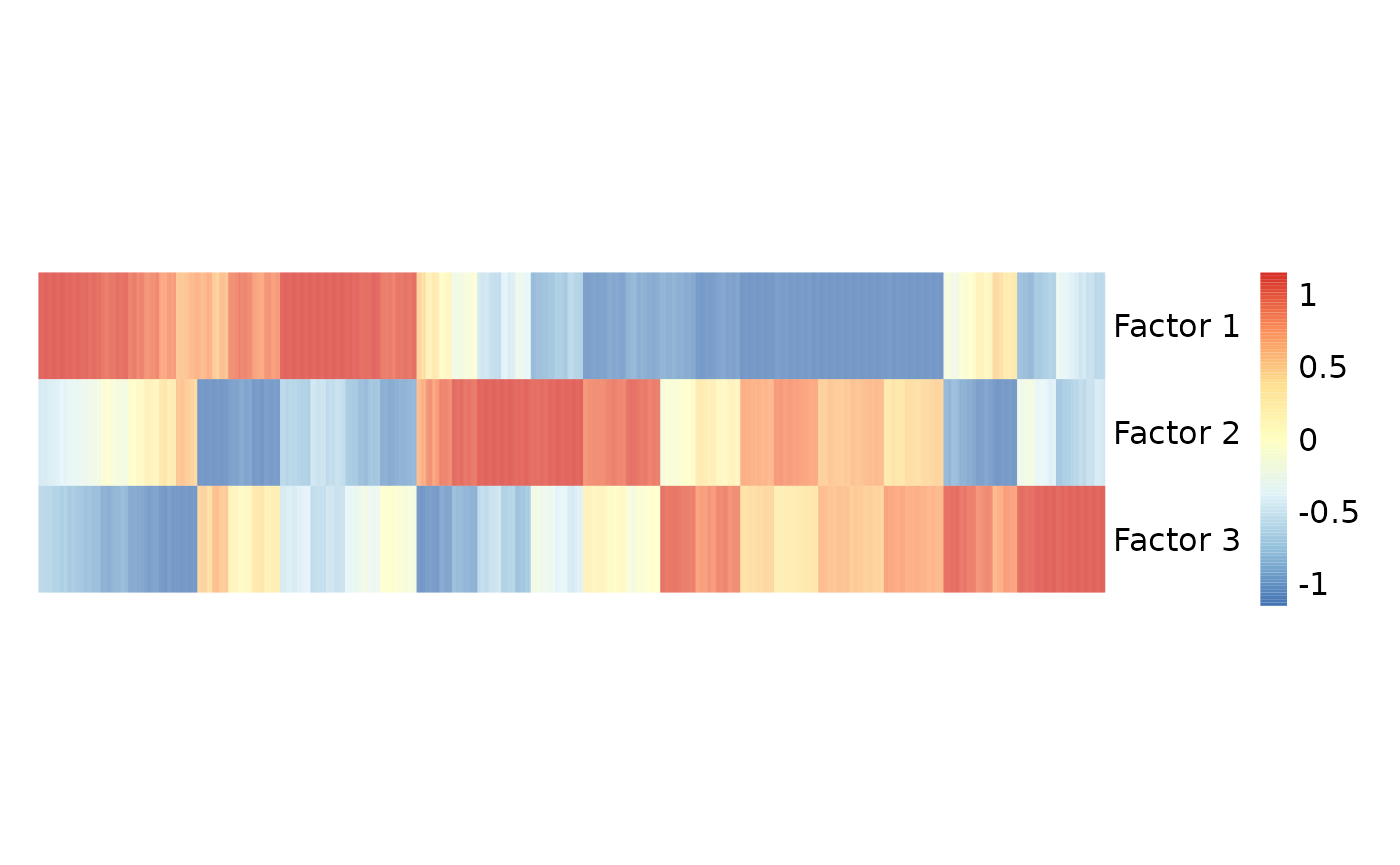
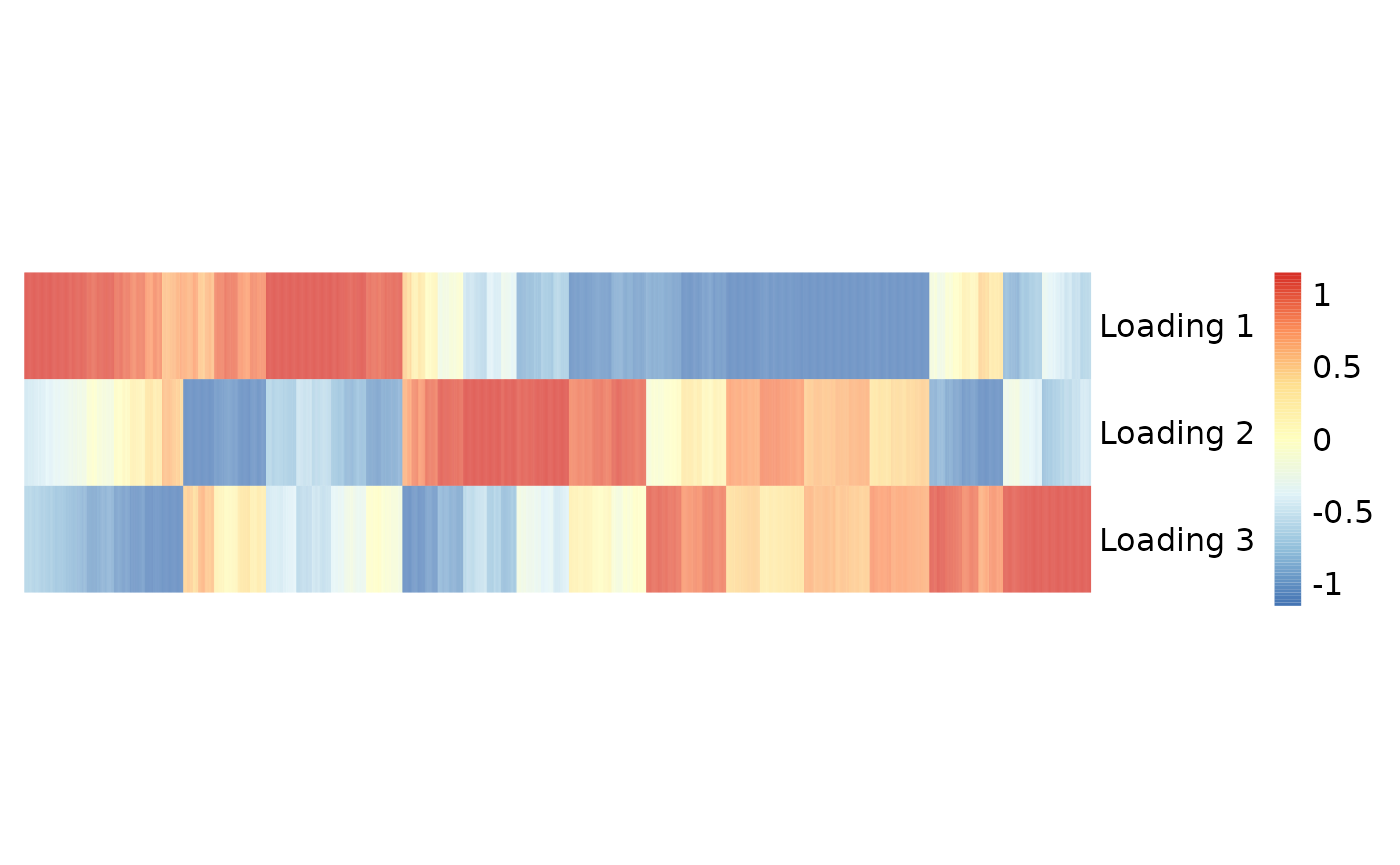
Deploying to gh-pages from @ YangLabHKUST/mfair@5b9a8058d7cebe4ab9891791e4a91e08b1c44281 🚀

diff --git a/articles/neocortex.html b/articles/neocortex.html
@@ -201,7 +201,10 @@ by <span class="math inline">\(\{ F_1 (\cdot) , F_2 (\cdot) , F_3
 <code class="sourceCode R"><span><span class="co"># Visualization of F(.)</span></span>
 <span><span class="va">p</span> <span class="op">&lt;-</span> <span class="fu"><a href="https://ggplot2.tidyverse.org/reference/ggplot.html" class="external-link">ggplot</a></span><span class="op">(</span></span>
 <span>  data <span class="op">=</span> <span class="va">FX_long</span>,</span>
-<span>  <span class="fu"><a href="https://ggplot2.tidyverse.org/reference/aes.html" class="external-link">aes</a></span><span class="op">(</span>x <span class="op">=</span> <span class="va">`Time period`</span>, y <span class="op">=</span> <span class="cn">F</span>, linetype <span class="op">=</span> <span class="va">`Neocortex area`</span>, colour <span class="op">=</span> <span class="va">`Neocortex area`</span>, group <span class="op">=</span> <span class="va">`Neocortex area`</span><span class="op">)</span></span>
+<span>  <span class="fu"><a href="https://ggplot2.tidyverse.org/reference/aes.html" class="external-link">aes</a></span><span class="op">(</span></span>
+<span>    x <span class="op">=</span> <span class="va">`Time period`</span>, y <span class="op">=</span> <span class="cn">F</span>,</span>
+<span>    linetype <span class="op">=</span> <span class="va">`Neocortex area`</span>, colour <span class="op">=</span> <span class="va">`Neocortex area`</span>, group <span class="op">=</span> <span class="va">`Neocortex area`</span></span>
+<span>  <span class="op">)</span></span>
 <span><span class="op">)</span> <span class="op">+</span></span>
 <span>  <span class="fu"><a href="https://ggplot2.tidyverse.org/reference/geom_path.html" class="external-link">geom_line</a></span><span class="op">(</span>linewidth <span class="op">=</span> <span class="fl">0.5</span><span class="op">)</span> <span class="op">+</span></span>
 <span>  <span class="fu"><a href="https://ggplot2.tidyverse.org/reference/labs.html" class="external-link">ylab</a></span><span class="op">(</span><span class="cn">NULL</span><span class="op">)</span> <span class="op">+</span></span>
@@ -228,12 +231,12 @@ by <span class="math inline">\(\{ F_1 (\cdot) , F_2 (\cdot) , F_3
 <h2 id="gene-set-enrichment-analysis">Gene set enrichment analysis<a class="anchor" aria-label="anchor" href="#gene-set-enrichment-analysis"></a>
 </h2>
 <div class="sourceCode" id="cb7"><pre class="downlit sourceCode r">
-<code class="sourceCode R"><span><span class="co"># Inferred gene factors (corresponding to the W matrix in the MFAI paper)</span></span>
-<span><span class="va">gene_factors</span> <span class="op">&lt;-</span> <span class="va">mfairObject</span><span class="op">@</span><span class="va">W</span></span>
-<span><span class="fu"><a href="https://rdrr.io/r/base/colnames.html" class="external-link">rownames</a></span><span class="op">(</span><span class="va">gene_factors</span><span class="op">)</span> <span class="op">&lt;-</span> <span class="fu"><a href="https://rdrr.io/r/base/colnames.html" class="external-link">colnames</a></span><span class="op">(</span><span class="va">mfairObject</span><span class="op">@</span><span class="va">Y</span><span class="op">)</span> <span class="co"># Assign gene symbols</span></span>
-<span><span class="fu"><a href="https://rdrr.io/r/base/colnames.html" class="external-link">colnames</a></span><span class="op">(</span><span class="va">gene_factors</span><span class="op">)</span> <span class="op">&lt;-</span> <span class="fu"><a href="https://rdrr.io/r/base/paste.html" class="external-link">paste</a></span><span class="op">(</span><span class="st">"Factor"</span>, <span class="fu"><a href="https://rdrr.io/r/base/c.html" class="external-link">c</a></span><span class="op">(</span><span class="fl">1</span><span class="op">:</span><span class="fl">3</span><span class="op">)</span><span class="op">)</span></span>
-<span><span class="fu"><a href="https://rdrr.io/r/utils/head.html" class="external-link">head</a></span><span class="op">(</span><span class="va">gene_factors</span><span class="op">)</span></span>
-<span><span class="co">#&gt;           Factor 1   Factor 2   Factor 3</span></span>
+<code class="sourceCode R"><span><span class="co"># Inferred gene loadings (corresponding to the W matrix in the MFAI paper)</span></span>
+<span><span class="va">gene_loadings</span> <span class="op">&lt;-</span> <span class="va">mfairObject</span><span class="op">@</span><span class="va">W</span></span>
+<span><span class="fu"><a href="https://rdrr.io/r/base/colnames.html" class="external-link">rownames</a></span><span class="op">(</span><span class="va">gene_loadings</span><span class="op">)</span> <span class="op">&lt;-</span> <span class="fu"><a href="https://rdrr.io/r/base/colnames.html" class="external-link">colnames</a></span><span class="op">(</span><span class="va">mfairObject</span><span class="op">@</span><span class="va">Y</span><span class="op">)</span> <span class="co"># Assign gene symbols</span></span>
+<span><span class="fu"><a href="https://rdrr.io/r/base/colnames.html" class="external-link">colnames</a></span><span class="op">(</span><span class="va">gene_loadings</span><span class="op">)</span> <span class="op">&lt;-</span> <span class="fu"><a href="https://rdrr.io/r/base/paste.html" class="external-link">paste</a></span><span class="op">(</span><span class="st">"Loading"</span>, <span class="fu"><a href="https://rdrr.io/r/base/c.html" class="external-link">c</a></span><span class="op">(</span><span class="fl">1</span><span class="op">:</span><span class="fl">3</span><span class="op">)</span><span class="op">)</span></span>
+<span><span class="fu"><a href="https://rdrr.io/r/utils/head.html" class="external-link">head</a></span><span class="op">(</span><span class="va">gene_loadings</span><span class="op">)</span></span>
+<span><span class="co">#&gt;          Loading 1  Loading 2  Loading 3</span></span>
 <span><span class="co">#&gt; DCUN1D2 -1.0973545  0.4754917 -0.4656467</span></span>
 <span><span class="co">#&gt; ARRB1    3.7897678  0.5357535  0.3688403</span></span>
 <span><span class="co">#&gt; PDE1B    0.1807732  3.1537712 -0.5730507</span></span>
@@ -241,8 +244,8 @@ by <span class="math inline">\(\{ F_1 (\cdot) , F_2 (\cdot) , F_3
 <span><span class="co">#&gt; TOX      1.6022312 -1.6211514 -1.7326521</span></span>
 <span><span class="co">#&gt; LOXHD1  -3.4764620  0.1372484  0.1020414</span></span></code></pre></div>
 <div class="sourceCode" id="cb8"><pre class="downlit sourceCode r">
-<code class="sourceCode R"><span><span class="co"># Heatmap of the inferred gene factors</span></span>
-<span><span class="fu">pheatmap</span><span class="fu">::</span><span class="fu"><a href="https://rdrr.io/pkg/pheatmap/man/pheatmap.html" class="external-link">pheatmap</a></span><span class="op">(</span><span class="fu"><a href="https://rdrr.io/r/base/t.html" class="external-link">t</a></span><span class="op">(</span><span class="va">gene_factors</span><span class="op">)</span>,</span>
+<code class="sourceCode R"><span><span class="co"># Heatmap of the inferred gene loadings</span></span>
+<span><span class="fu">pheatmap</span><span class="fu">::</span><span class="fu"><a href="https://rdrr.io/pkg/pheatmap/man/pheatmap.html" class="external-link">pheatmap</a></span><span class="op">(</span><span class="fu"><a href="https://rdrr.io/r/base/t.html" class="external-link">t</a></span><span class="op">(</span><span class="va">gene_loadings</span><span class="op">)</span>,</span>
 <span>  scale <span class="op">=</span> <span class="st">"column"</span>,</span>
 <span>  clustering_method <span class="op">=</span> <span class="st">"complete"</span>,</span>
 <span>  cluster_row <span class="op">=</span> <span class="cn">FALSE</span>, cluster_col <span class="op">=</span> <span class="cn">TRUE</span>,</span>
@@ -253,14 +256,14 @@ by <span class="math inline">\(\{ F_1 (\cdot) , F_2 (\cdot) , F_3
 <span>  fontsize <span class="op">=</span> <span class="fl">12</span></span>
 <span><span class="op">)</span></span></code></pre></div>
 <p><img src="neocortex_files/figure-html/unnamed-chunk-8-1.png" width="700"></p>
-<p>We first calculated the relative weight of the <span class="math inline">\(k\)</span>-th factor for the <span class="math inline">\(m\)</span>-th gene by <span class="math inline">\(\left| W_{mk} \right| / \sum_{k^{\prime}=1}^{3}
+<p>We first calculated the relative weight of the <span class="math inline">\(k\)</span>-th loading for the <span class="math inline">\(m\)</span>-th gene by <span class="math inline">\(\left| W_{mk} \right| / \sum_{k^{\prime}=1}^{3}
 \left| W_{mk^{\prime}} \right|\)</span>, where <span class="math inline">\(W_{m \cdot} \in \mathbb{R}^{3 \times 1}\)</span>
-is the <span class="math inline">\(m\)</span>-th row of gene factors,
-and then selected the top 300 weighted genes in each factor to form the
+is the <span class="math inline">\(m\)</span>-th row of gene loadings,
+and then selected the top 300 weighted genes in each loading to form the
 gene sets.</p>
 <div class="sourceCode" id="cb9"><pre class="downlit sourceCode r">
-<code class="sourceCode R"><span><span class="co"># Normalize each factor to have l2-norm equal one</span></span>
-<span><span class="va">gene_factors</span> <span class="op">&lt;-</span> <span class="fu"><a href="https://rdrr.io/r/base/apply.html" class="external-link">apply</a></span><span class="op">(</span><span class="va">gene_factors</span>,</span>
+<code class="sourceCode R"><span><span class="co"># Normalize each loading to have l2-norm equal one</span></span>
+<span><span class="va">gene_loadings</span> <span class="op">&lt;-</span> <span class="fu"><a href="https://rdrr.io/r/base/apply.html" class="external-link">apply</a></span><span class="op">(</span><span class="va">gene_loadings</span>,</span>
 <span>  MARGIN <span class="op">=</span> <span class="fl">2</span>,</span>
 <span>  FUN <span class="op">=</span> <span class="kw">function</span><span class="op">(</span><span class="va">x</span><span class="op">)</span> <span class="op">{</span></span>
 <span>    <span class="va">x</span> <span class="op">/</span> <span class="fu"><a href="https://rdrr.io/r/base/MathFun.html" class="external-link">sqrt</a></span><span class="op">(</span><span class="fu"><a href="https://rdrr.io/r/base/sum.html" class="external-link">sum</a></span><span class="op">(</span><span class="va">x</span><span class="op">^</span><span class="fl">2</span><span class="op">)</span><span class="op">)</span></span>
@@ -268,14 +271,14 @@ gene sets.</p>
 <span><span class="op">)</span></span>
 <span></span>
 <span><span class="co"># Relative weight</span></span>
-<span><span class="va">gene_factors</span> <span class="op">&lt;-</span> <span class="fu"><a href="https://rdrr.io/r/base/MathFun.html" class="external-link">abs</a></span><span class="op">(</span><span class="va">gene_factors</span><span class="op">)</span></span>
-<span><span class="va">gene_factors</span> <span class="op">&lt;-</span> <span class="va">gene_factors</span> <span class="op">/</span> <span class="fu"><a href="https://rdrr.io/pkg/Matrix/man/colSums.html" class="external-link">rowSums</a></span><span class="op">(</span><span class="va">gene_factors</span><span class="op">)</span></span>
+<span><span class="va">gene_loadings</span> <span class="op">&lt;-</span> <span class="fu"><a href="https://rdrr.io/r/base/MathFun.html" class="external-link">abs</a></span><span class="op">(</span><span class="va">gene_loadings</span><span class="op">)</span></span>
+<span><span class="va">gene_loadings</span> <span class="op">&lt;-</span> <span class="va">gene_loadings</span> <span class="op">/</span> <span class="fu"><a href="https://rdrr.io/pkg/Matrix/man/colSums.html" class="external-link">rowSums</a></span><span class="op">(</span><span class="va">gene_loadings</span><span class="op">)</span></span>
 <span></span>
-<span><span class="va">M</span> <span class="op">&lt;-</span> <span class="fu"><a href="https://rdrr.io/r/base/nrow.html" class="external-link">nrow</a></span><span class="op">(</span><span class="va">gene_factors</span><span class="op">)</span><span class="op">[</span><span class="fl">1</span><span class="op">]</span> <span class="co"># Total number of genes M = 2,000</span></span>
-<span><span class="va">ntop</span> <span class="op">&lt;-</span> <span class="va">M</span> <span class="op">*</span> <span class="fl">0.15</span> <span class="co"># We use the top 300 weighted genes in each factor to form the gene sets</span></span>
+<span><span class="va">M</span> <span class="op">&lt;-</span> <span class="fu"><a href="https://rdrr.io/r/base/nrow.html" class="external-link">nrow</a></span><span class="op">(</span><span class="va">gene_loadings</span><span class="op">)</span><span class="op">[</span><span class="fl">1</span><span class="op">]</span> <span class="co"># Total number of genes M = 2,000</span></span>
+<span><span class="va">ntop</span> <span class="op">&lt;-</span> <span class="va">M</span> <span class="op">*</span> <span class="fl">0.15</span> <span class="co"># We use the top 300 weighted genes in each loading to form the gene sets</span></span>
 <span></span>
 <span><span class="co"># Index of top genes</span></span>
-<span><span class="va">top_gene_idx</span> <span class="op">&lt;-</span> <span class="fu"><a href="https://rdrr.io/r/base/apply.html" class="external-link">apply</a></span><span class="op">(</span><span class="va">gene_factors</span>,</span>
+<span><span class="va">top_gene_idx</span> <span class="op">&lt;-</span> <span class="fu"><a href="https://rdrr.io/r/base/apply.html" class="external-link">apply</a></span><span class="op">(</span><span class="va">gene_loadings</span>,</span>
 <span>  MARGIN <span class="op">=</span> <span class="fl">2</span>,</span>
 <span>  FUN <span class="op">=</span> <span class="kw">function</span><span class="op">(</span><span class="va">x</span><span class="op">)</span> <span class="op">{</span></span>
 <span>    <span class="fu"><a href="https://rdrr.io/r/base/which.html" class="external-link">which</a></span><span class="op">(</span><span class="fu"><a href="https://rdrr.io/r/base/rank.html" class="external-link">rank</a></span><span class="op">(</span><span class="op">-</span><span class="va">x</span><span class="op">)</span> <span class="op">&lt;=</span> <span class="va">ntop</span><span class="op">)</span></span>
@@ -285,18 +288,18 @@ gene sets.</p>
 <span><span class="va">top_genes</span> <span class="op">&lt;-</span> <span class="fu"><a href="https://rdrr.io/r/base/apply.html" class="external-link">apply</a></span><span class="op">(</span><span class="va">top_gene_idx</span>,</span>
 <span>  MARGIN <span class="op">=</span> <span class="fl">2</span>,</span>
 <span>  FUN <span class="op">=</span> <span class="kw">function</span><span class="op">(</span><span class="va">x</span><span class="op">)</span> <span class="op">{</span></span>
-<span>    <span class="fu"><a href="https://rdrr.io/r/base/colnames.html" class="external-link">rownames</a></span><span class="op">(</span><span class="va">gene_factors</span><span class="op">)</span><span class="op">[</span><span class="va">x</span><span class="op">]</span></span>
+<span>    <span class="fu"><a href="https://rdrr.io/r/base/colnames.html" class="external-link">rownames</a></span><span class="op">(</span><span class="va">gene_loadings</span><span class="op">)</span><span class="op">[</span><span class="va">x</span><span class="op">]</span></span>
 <span>  <span class="op">}</span></span>
 <span><span class="op">)</span></span>
-<span><span class="fu"><a href="https://rdrr.io/r/base/colnames.html" class="external-link">colnames</a></span><span class="op">(</span><span class="va">top_genes</span><span class="op">)</span> <span class="op">&lt;-</span> <span class="fu"><a href="https://rdrr.io/r/base/paste.html" class="external-link">paste</a></span><span class="op">(</span><span class="st">"Factor"</span>, <span class="fu"><a href="https://rdrr.io/r/base/c.html" class="external-link">c</a></span><span class="op">(</span><span class="fl">1</span><span class="op">:</span><span class="fl">3</span><span class="op">)</span><span class="op">)</span></span>
+<span><span class="fu"><a href="https://rdrr.io/r/base/colnames.html" class="external-link">colnames</a></span><span class="op">(</span><span class="va">top_genes</span><span class="op">)</span> <span class="op">&lt;-</span> <span class="fu"><a href="https://rdrr.io/r/base/paste.html" class="external-link">paste</a></span><span class="op">(</span><span class="st">"Loading"</span>, <span class="fu"><a href="https://rdrr.io/r/base/c.html" class="external-link">c</a></span><span class="op">(</span><span class="fl">1</span><span class="op">:</span><span class="fl">3</span><span class="op">)</span><span class="op">)</span></span>
 <span><span class="fu"><a href="https://rdrr.io/r/utils/head.html" class="external-link">head</a></span><span class="op">(</span><span class="va">top_genes</span><span class="op">)</span></span>
-<span><span class="co">#&gt;      Factor 1  Factor 2 Factor 3</span></span>
-<span><span class="co">#&gt; [1,] "ARRB1"   "PDE1B"  "AJAP1" </span></span>
-<span><span class="co">#&gt; [2,] "LOXHD1"  "PDE7B"  "KCNA3" </span></span>
-<span><span class="co">#&gt; [3,] "TYRP1"   "KCNA2"  "ASTN2" </span></span>
-<span><span class="co">#&gt; [4,] "PRKG1"   "PMP22"  "EMID1" </span></span>
-<span><span class="co">#&gt; [5,] "MS4A8B"  "GPR155" "GPR52" </span></span>
-<span><span class="co">#&gt; [6,] "FAM131B" "SMAD2"  "SEC24D"</span></span></code></pre></div>
+<span><span class="co">#&gt;      Loading 1 Loading 2 Loading 3</span></span>
+<span><span class="co">#&gt; [1,] "ARRB1"   "PDE1B"   "AJAP1"  </span></span>
+<span><span class="co">#&gt; [2,] "LOXHD1"  "PDE7B"   "KCNA3"  </span></span>
+<span><span class="co">#&gt; [3,] "TYRP1"   "KCNA2"   "ASTN2"  </span></span>
+<span><span class="co">#&gt; [4,] "PRKG1"   "PMP22"   "EMID1"  </span></span>
+<span><span class="co">#&gt; [5,] "MS4A8B"  "GPR155"  "GPR52"  </span></span>
+<span><span class="co">#&gt; [6,] "FAM131B" "SMAD2"   "SEC24D"</span></span></code></pre></div>
 <p>Then we can conduct the gene set enrichment analysis based on <a href="http://geneontology.org/" class="external-link">Gene Ontology</a> for each factor.</p>
 </div>
   </main><aside class="col-md-3"><nav id="toc"><h2>On this page</h2>
